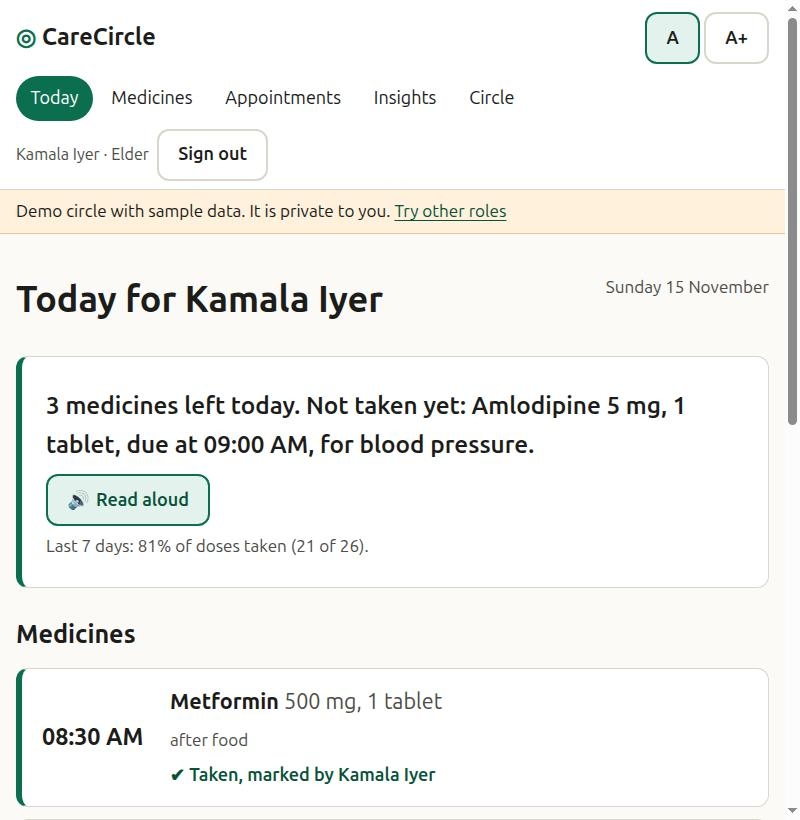
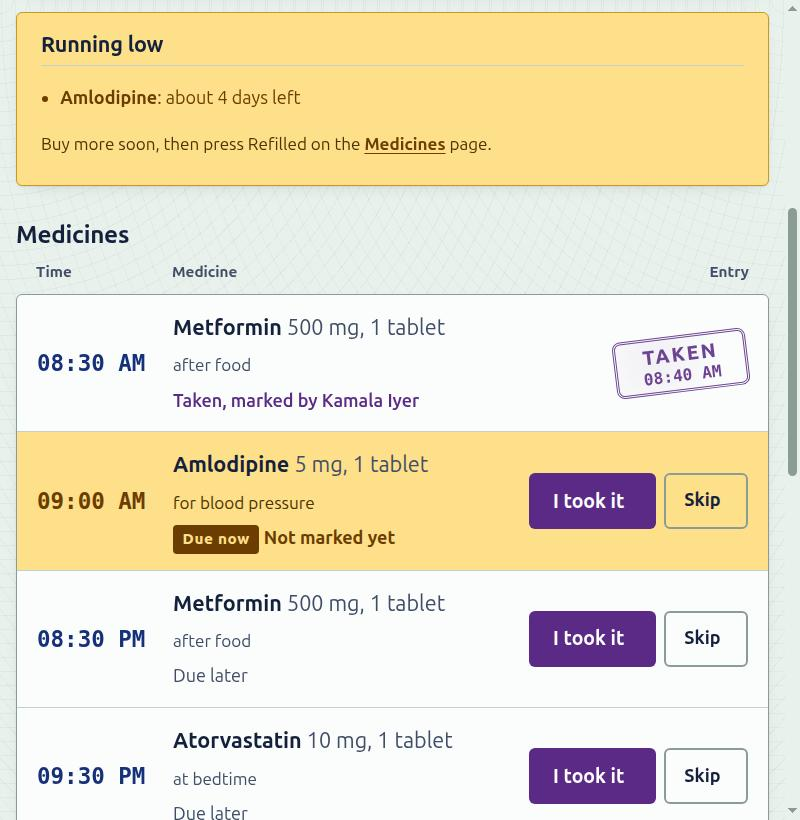
Adherence bars in the passbook palette; README screenshots of the new look

diff --git a/app/static/style.css b/app/static/style.css
@@ -347,7 +347,14 @@ tbody tr:hover { background: #f1f6f3; }
 .bar-list { list-style: none; padding: 0; display: grid; gap: 0; }
 .bar-list li { display: grid; grid-template-columns: minmax(8rem, 14rem) 1fr 7.5rem; gap: 1rem; align-items: center; padding: 0.5rem 0; border-bottom: 1px solid var(--rule); }
 .bar-list li > :last-child { text-align: right; }
-meter { width: 100%; height: 1.2rem; accent-color: var(--stamp); }
+meter { width: 100%; height: 1.2rem; appearance: none; background: #dde6e0; border: 1px solid var(--rule-strong); border-radius: 3px; }
+meter::-webkit-meter-bar { background: #dde6e0; border: 0; border-radius: 3px; height: 100%; }
+meter::-webkit-meter-optimum-value { background: var(--ok); border-radius: 2px; }
+meter::-webkit-meter-suboptimum-value { background: #b7791f; border-radius: 2px; }
+meter::-webkit-meter-even-less-good-value { background: var(--danger); border-radius: 2px; }
+meter:-moz-meter-optimum::-moz-meter-bar { background: var(--ok); }
+meter:-moz-meter-sub-optimum::-moz-meter-bar { background: #b7791f; }
+meter:-moz-meter-sub-sub-optimum::-moz-meter-bar { background: var(--danger); }
 .summary-text { font-size: 1.1em; white-space: pre-line; max-width: 70ch; }
 .summary-form { display: flex; flex-wrap: wrap; align-items: flex-end; gap: 0.6rem; }
 .summary-form .field { width: auto; min-width: 12rem; }

diff --git a/README.md b/README.md
@@ -7,8 +7,13 @@ Most reminder apps nag one person. CareCircle treats medication as a team effort
 - **Live app:** https://carecircle-641776536530.asia-south1.run.app (click **Try a demo circle** for a private circle with a week of sample data, no sign-up)
 - **Stack:** Python · FastAPI · Jinja2 · Cloud Firestore · Gemini on Vertex AI · Cloud Scheduler · Secret Manager · Cloud Logging · Cloud Run
 
-| Today, for the elder | Weekly family update by Gemini | On a phone |
+| Today, the elder's care book | Weekly family update by Gemini | On a phone |
 |---|---|---|
+| ![Today screen in the passbook style: a running-low notice, then the day's medicines as entries in Time, Medicine and Entry columns; the taken dose carries a violet TAKEN 08:40 AM rubber stamp and the overdue Amlodipine row is lit amber with a Due now label and I took it and Skip buttons](docs/today.jpg) | ![Insights: adherence for each medicine, how the elder felt each day this week, and a Gemini-written weekly family update](docs/insights.jpg) | ![The Today screen on a 375-pixel-wide phone: passbook-blue header with section tabs, large summary and Read aloud button](docs/mobile.jpg) |
+| **Emergency fridge card (opened from the QR code)** | **The weekly update in Hindi** | **Doctor-visit sheet** |
+| ![Public emergency card on a phone: Kamala Iyer, a large Call 112 button, allergies highlighted in red, blood group, health conditions and the current medicines](docs/card.jpg) | ![Weekly family update written by Gemini in Hindi, mentioning the dizzy morning, with questions for the doctor in Hindi and a language menu](docs/hindi-summary.jpg) | ![Printable visit sheet for the cardiologist: current medicines with 30-day adherence for each, and how the elder has felt over two weeks](docs/visit-sheet.jpg) |
+
+---|---|---|
 | ![Today screen: large text summary saying one dose is not taken yet, a Read aloud button and the day's medicines](docs/today.jpg) | ![Insights: 7- and 30-day adherence, a bar per medicine and a Gemini-written weekly summary with questions for the doctor](docs/insights.jpg) | ![The Today screen on a 375-pixel-wide phone, with the same large text and buttons](docs/mobile.jpg) |
 | **"How are you feeling today?"** | **The weekly update in Hindi** | **Doctor-visit sheet** |
 | ![Daily check-in card with a note box, a tick box to email caretakers and family only if the elder chooses, and three large buttons: Good, Okay, Not well](docs/checkin.jpg) | ![Weekly family update written by Gemini in Hindi, mentioning the dizzy morning, with questions for the doctor in Hindi and a language menu](docs/hindi-summary.jpg) | ![Printable visit sheet for the cardiologist: current medicines with 30-day adherence for each, and how the elder has felt over two weeks](docs/visit-sheet.jpg) |
